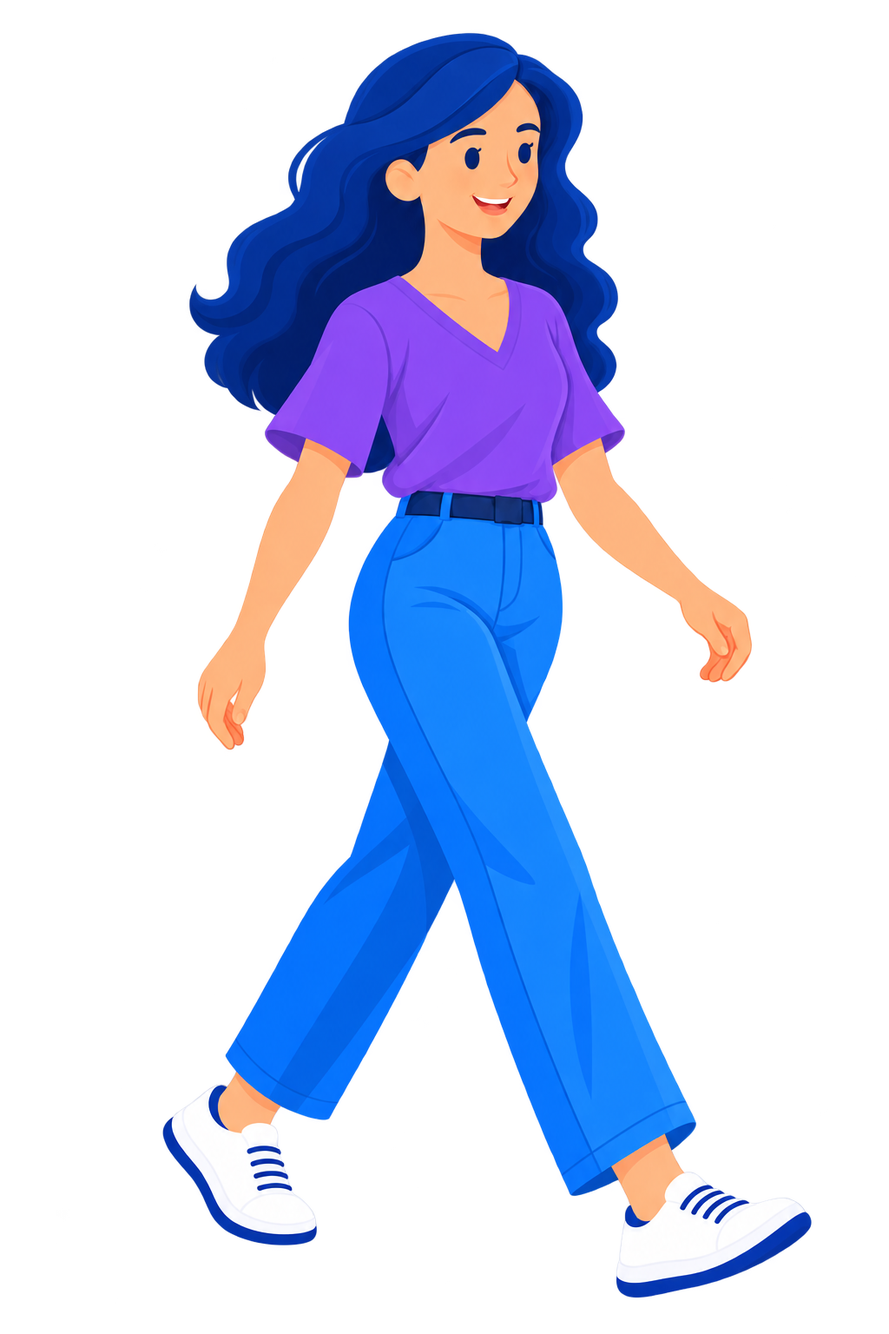
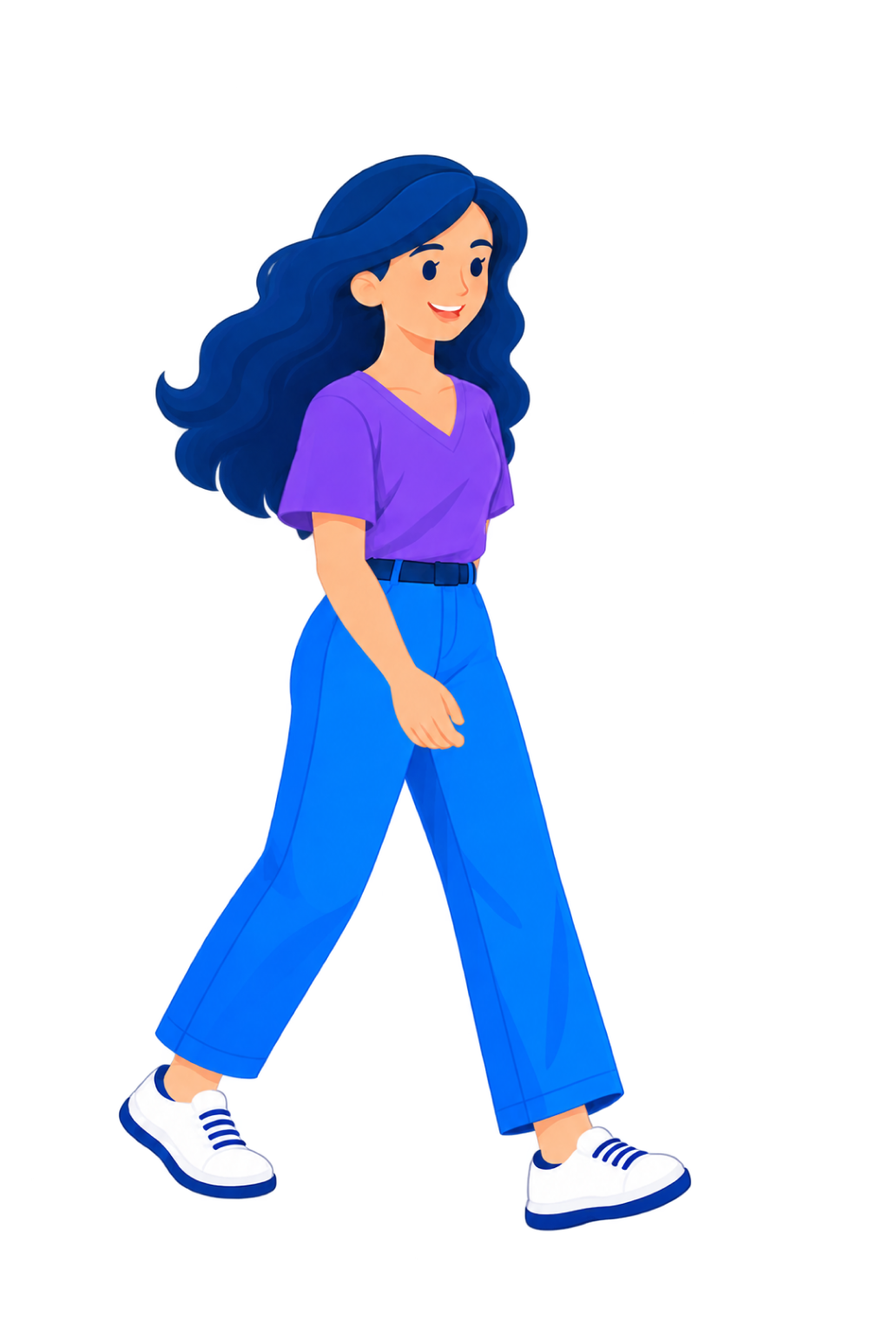
feat(qs-brand-animation): ciclo de caminata completo y 3 productos nuevos
- Ciclo de 6 fotogramas para Caro y Nico (reemplaza la zancada de una sola fase)
- CharacterWalk: elevación solo en fotogramas de paso, desfase y walkSpeed()
  para que el travelling acompañe la zancada sin que los pies patinen
- WalkLab: composición de validación (travelling + parallax), video en review/
- Productos: doypack de salsa, jabón de manos rosa, shampoo azul; categoría Salsas y aderezos
- scripts/build-manifests.py (npm run manifests) regenera poses.ts y products.ts

Claude-Session: https://claude.ai/code/session_01TCZn7RvVYdz1ZuWFcgayG7

Changed region(s): [[0.125, 0.0, 0.9062, 0.9688]]

diff --git a/projects/qs-brand-animation/src/characters/poses.ts b/projects/qs-brand-animation/src/characters/poses.ts
@@ -1,4 +1,4 @@
-/* Generado desde public/characters (bounding box del canal alfa > 16). No editar a mano: correr el script de assets. */
+/* Generado por scripts/build-manifests.py (bounding box del alfa > 16). No editar a mano. */
 export type PoseKind = 'standing' | 'seated' | 'fallen' | 'closeup';
 export type PoseMeta = { w: number; h: number; bbox: [number, number, number, number]; kind: PoseKind };
 
@@ -7,11 +7,12 @@ export const POSES = {
     'caida': { w: 1024, h: 1536, bbox: [52, 182, 1012, 1274], kind: 'fallen' },
     'caminando-cerca-2': { w: 1024, h: 1536, bbox: [204, 33, 918, 1493], kind: 'standing' },
     'caminando-cerca': { w: 1024, h: 1536, bbox: [178, 27, 936, 1493], kind: 'standing' },
-    'caminando-ciclo-01': { w: 1024, h: 1536, bbox: [187, 38, 935, 1495], kind: 'standing' },
-    'caminando-ciclo-02': { w: 1024, h: 1536, bbox: [200, 36, 897, 1497], kind: 'standing' },
-    'caminando-ciclo-03': { w: 1024, h: 1536, bbox: [193, 35, 954, 1478], kind: 'standing' },
-    'caminando-ciclo-04': { w: 1024, h: 1536, bbox: [189, 35, 948, 1482], kind: 'standing' },
-    'caminando-ciclo-05': { w: 1024, h: 1536, bbox: [203, 29, 921, 1493], kind: 'standing' },
+    'caminando-ciclo-01': { w: 1024, h: 1536, bbox: [136, 177, 797, 1418], kind: 'standing' },
+    'caminando-ciclo-02': { w: 1024, h: 1536, bbox: [161, 179, 719, 1416], kind: 'standing' },
+    'caminando-ciclo-03': { w: 1024, h: 1536, bbox: [171, 179, 730, 1416], kind: 'standing' },
+    'caminando-ciclo-04': { w: 1024, h: 1536, bbox: [204, 177, 664, 1418], kind: 'standing' },
+    'caminando-ciclo-05': { w: 1024, h: 1536, bbox: [185, 177, 715, 1417], kind: 'standing' },
+    'caminando-ciclo-06': { w: 1024, h: 1536, bbox: [177, 176, 798, 1419], kind: 'standing' },
     'caminando': { w: 1024, h: 1536, bbox: [197, 28, 877, 1487], kind: 'standing' },
     'celular-sonriendo': { w: 1024, h: 1536, bbox: [257, 34, 762, 1514], kind: 'standing' },
     'celular': { w: 1024, h: 1536, bbox: [257, 35, 759, 1513], kind: 'standing' },
@@ -26,10 +27,12 @@ export const POSES = {
   nico: {
     'caminando-cerca-2': { w: 1024, h: 1536, bbox: [224, 26, 893, 1495], kind: 'standing' },
     'caminando-cerca': { w: 1024, h: 1536, bbox: [164, 30, 932, 1495], kind: 'standing' },
-    'caminando-ciclo-01': { w: 1024, h: 1536, bbox: [189, 25, 904, 1489], kind: 'standing' },
-    'caminando-ciclo-02': { w: 1024, h: 1536, bbox: [172, 28, 932, 1469], kind: 'standing' },
-    'caminando-ciclo-03': { w: 1024, h: 1536, bbox: [171, 28, 940, 1476], kind: 'standing' },
-    'caminando-ciclo-04': { w: 1024, h: 1536, bbox: [189, 26, 912, 1495], kind: 'standing' },
+    'caminando-ciclo-01': { w: 1024, h: 1536, bbox: [226, 204, 844, 1452], kind: 'standing' },
+    'caminando-ciclo-02': { w: 1024, h: 1536, bbox: [304, 202, 686, 1452], kind: 'standing' },
+    'caminando-ciclo-03': { w: 1024, h: 1536, bbox: [187, 210, 870, 1452], kind: 'standing' },
+    'caminando-ciclo-04': { w: 1024, h: 1536, bbox: [348, 206, 684, 1452], kind: 'standing' },
+    'caminando-ciclo-05': { w: 1024, h: 1536, bbox: [213, 202, 848, 1452], kind: 'standing' },
+    'caminando-ciclo-06': { w: 1024, h: 1536, bbox: [277, 203, 696, 1451], kind: 'standing' },
     'caminando': { w: 1024, h: 1536, bbox: [163, 29, 875, 1507], kind: 'standing' },
     'celular-sonriendo': { w: 1024, h: 1536, bbox: [257, 39, 805, 1530], kind: 'standing' },
     'celular': { w: 941, h: 1672, bbox: [219, 51, 770, 1643], kind: 'standing' },

diff --git a/projects/qs-brand-animation/src/ui/products.ts b/projects/qs-brand-animation/src/ui/products.ts
@@ -1,5 +1,5 @@
-/* Generado desde public/products (bounding box del alfa > 16). Alturas aproximadas a ojo (referencia: lavandina 25 cm, crema dental 11,5 cm). Ajustables. */
-export type ProductCategory = 'lavandina' | 'ropa' | 'lavavajillas' | 'limpiadores' | 'cuidado';
+/* Generado por scripts/build-manifests.py. Alturas a ojo (referencia: lavandina 25 cm, crema dental 11,5 cm). */
+export type ProductCategory = 'lavandina' | 'ropa' | 'lavavajillas' | 'limpiadores' | 'cuidado' | 'almacen';
 export type ProductMeta = { file: string; name: string; category: ProductCategory; heightCm: number; w: number; h: number; bbox: [number, number, number, number] };
 
 export const PRODUCTS = {
@@ -8,12 +8,15 @@ export const PRODUCTS = {
   'bidon-limpiador-amarillo': { file: 'products/bidon-limpiador-amarillo.png', name: 'Lavandina en gel 1 L', category: 'lavandina', heightCm: 22, w: 1254, h: 1254, bbox: [401, 87, 889, 1172] },
   'detergente-liquido-celeste': { file: 'products/detergente-liquido-celeste.png', name: 'Jabón líquido para ropa 3 L', category: 'ropa', heightCm: 28, w: 1254, h: 1254, bbox: [322, 55, 961, 1202] },
   'dispensador-jabon-celeste': { file: 'products/dispensador-jabon-celeste.png', name: 'Jabón líquido de manos 250 ml', category: 'cuidado', heightCm: 16, w: 1254, h: 1254, bbox: [360, 78, 930, 1185] },
+  'dispensador-jabon-rosa': { file: 'products/dispensador-jabon-rosa.png', name: 'Jabón líquido de manos 300 ml', category: 'cuidado', heightCm: 17, w: 1024, h: 1536, bbox: [131, 46, 912, 1461] },
+  'doypack-salsa-pizza': { file: 'products/doypack-salsa-pizza.png', name: 'Salsa para pizza doypack 340 g', category: 'almacen', heightCm: 18, w: 1024, h: 1536, bbox: [85, 45, 940, 1469] },
   'lavavajillas-amarillo': { file: 'products/lavavajillas-amarillo.png', name: 'Lavavajillas 500 ml', category: 'lavavajillas', heightCm: 19, w: 1254, h: 1254, bbox: [354, 82, 900, 1186] },
   'rociador-limpiador-verde': { file: 'products/rociador-limpiador-verde.png', name: 'Limpiador multiuso gatillo 500 ml', category: 'limpiadores', heightCm: 24, w: 1144, h: 1375, bbox: [236, 26, 936, 1340] },
   'set-cosmetica-violeta': { file: 'products/set-cosmetica-violeta.png', name: 'Shampoo + acondicionador', category: 'cuidado', heightCm: 20, w: 1254, h: 1254, bbox: [280, 106, 1023, 1186] },
   'set-crema-rosa': { file: 'products/set-crema-rosa.png', name: 'Crema corporal tubo + pote', category: 'cuidado', heightCm: 12, w: 1254, h: 1254, bbox: [141, 136, 1148, 1119] },
   'set-desodorante-aerosol-rollon': { file: 'products/set-desodorante-aerosol-rollon.png', name: 'Desodorante aerosol + roll-on', category: 'cuidado', heightCm: 15, w: 1254, h: 1254, bbox: [289, 93, 1010, 1179] },
   'set-limpieza-celeste': { file: 'products/set-limpieza-celeste.png', name: 'Limpiador baño + inodoro', category: 'limpiadores', heightCm: 25, w: 1254, h: 1254, bbox: [155, 116, 1129, 1162] },
+  'shampoo-azul': { file: 'products/shampoo-azul.png', name: 'Shampoo 400 ml azul', category: 'cuidado', heightCm: 20, w: 1024, h: 1536, bbox: [282, 39, 753, 1503] },
   'shampoo-violeta': { file: 'products/shampoo-violeta.png', name: 'Shampoo 400 ml', category: 'cuidado', heightCm: 19, w: 1312, h: 1199, bbox: [418, 12, 894, 1180] },
   'tubo-crema-celeste': { file: 'products/tubo-crema-celeste.png', name: 'Crema dental 90 g', category: 'cuidado', heightCm: 11.5, w: 1254, h: 1254, bbox: [384, 74, 861, 1192] },
 } as const satisfies Record<string, ProductMeta>;

diff --git a/projects/qs-brand-animation/src/characters/Character.tsx b/projects/qs-brand-animation/src/characters/Character.tsx
@@ -88,32 +88,43 @@ export const Character = <W extends CharacterName>({ who, pose, height, x, y, br
 };
 
 type WalkProps<W extends CharacterName> = Omit<Props<W>, 'pose' | 'offsetY' | 'breath'> & {
-  /** fotogramas de la caminata, en orden */
+  /** fotogramas del ciclo, en orden */
   frames: PoseOf<W>[];
-  /** segundos por fotograma */
+  /** segundos por fotograma. 0.25 s ≈ 2 pasos por segundo (caminata natural) */
   frameSec?: number;
-  /** rebote vertical por paso (px) */
+  /** elevación en los fotogramas de paso (px); los de contacto quedan apoyados */
   bob?: number;
+  /** desfase del ciclo en fotogramas (para que dos personajes no pisen igual) */
+  offset?: number;
 };
 
+/** Largo de paso relativo a la altura de la figura (contacto a contacto). */
+export const STRIDE_RATIO = 0.42;
+
 /**
- * Caminata por swap de PNG + rebote leve. El desplazamiento lateral (travelling) lo hace la escena.
- * Nota: los fotogramas entregados son variantes de la misma zancada; para un ciclo completo
- * hacen falta los de la fase opuesta.
+ * Velocidad de travelling (px/s) que acompaña el ciclo sin que los pies patinen:
+ * un paso = 2 fotogramas del ciclo (contacto → paso).
  */
-export const CharacterWalk = <W extends CharacterName>({ frames, frameSec = 0.2, bob = 5, ...rest }: WalkProps<W>) => {
+export const walkSpeed = (height: number, frameSec = 0.25) => (STRIDE_RATIO * height) / (2 * frameSec);
+
+/**
+ * Caminata por swap de PNG: ciclo de 6 fotogramas (contacto / paso alternados) + leve elevación en los pasos.
+ * El desplazamiento lateral lo hace la escena, con walkSpeed() para que coincida con la zancada.
+ */
+export const CharacterWalk = <W extends CharacterName>({ frames, frameSec = 0.25, bob = 3, offset = 0, ...rest }: WalkProps<W>) => {
   const frame = useCurrentFrame();
   const { fps } = useVideoConfig();
   const step = Math.max(1, Math.round(frameSec * fps));
-  const i = Math.floor(frame / step) % frames.length;
-  const t = (frame % step) / step;
-  const offsetY = -Math.abs(Math.sin(t * Math.PI)) * bob;
+  const i = (Math.floor(frame / step) + offset) % frames.length;
+  // fotogramas pares del ciclo (índice 1, 3, 5) son de paso: el cuerpo sube un poco
+  const offsetY = i % 2 === 1 ? -bob : 0;
   return <Character {...(rest as Props<W>)} pose={frames[i]} breath={0} offsetY={offsetY} />;
 };
 
+const CYCLE = ['caminando-ciclo-01', 'caminando-ciclo-02', 'caminando-ciclo-03', 'caminando-ciclo-04', 'caminando-ciclo-05', 'caminando-ciclo-06'];
 export const WALK_FRAMES = {
-  caro: ['caminando-ciclo-01', 'caminando-ciclo-02', 'caminando-ciclo-03', 'caminando-ciclo-04', 'caminando-ciclo-05'] as PoseOf<'caro'>[],
-  nico: ['caminando-ciclo-01', 'caminando-ciclo-02', 'caminando-ciclo-03', 'caminando-ciclo-04'] as PoseOf<'nico'>[],
+  caro: CYCLE as PoseOf<'caro'>[],
+  nico: CYCLE as PoseOf<'nico'>[],
 };
 
 export const listPoses = (who: CharacterName) => Object.keys(POSES[who]);

diff --git a/projects/qs-brand-animation/src/showcase/labs.tsx b/projects/qs-brand-animation/src/showcase/labs.tsx
@@ -8,7 +8,8 @@ import { Phone } from '../devices/Phone';
 import { GradientBackground } from '../shapes/GradientBackground';
 import { Rings } from '../shapes/Rings';
 import { Blob } from '../shapes/Blob';
-import { KPI, KPIS, Toast, VisitsScreen, MapCard, ChartCard, ListRow, PDVS, IndicatorCard } from '../ui';
+import { KPI, KPIS, Toast, VisitsScreen, MapCard, ChartCard, ListRow, PDVS, IndicatorCard, Shelf, ShelfItem } from '../ui';
+import { CharacterWalk, WALK_FRAMES, walkSpeed } from '../characters/Character';
 import { phoneScreenRect } from '../transitions/zoomThrough';
 import { ObjectWipe } from '../transitions/ObjectWipe';
 import { MaskReveal } from '../transitions/MaskReveal';
@@ -241,5 +242,49 @@ export const TransitionsLab: React.FC = () => {
         );
       })}
     </AbsoluteFill>
+  );
+};
+
+/* ───────────── WalkLab: ciclo de caminata + travelling sin patinar ───────────── */
+
+const NICO_H = 620;
+const CARO_H = 380;
+const FLOOR_Y = 1000;
+const AISLE: ShelfItem[] = [
+  { id: 'detergente-liquido-celeste', facings: 3 },
+  { id: 'bidon-lavandina-amarillo', facings: 3 },
+  { id: 'lavavajillas-amarillo', facings: 4 },
+  { id: 'rociador-limpiador-verde', facings: 3 },
+  { id: 'shampoo-azul', facings: 4 },
+  { id: 'dispensador-jabon-rosa', facings: 3 },
+  { id: 'doypack-salsa-pizza', facings: 4 },
+];
+
+export const WalkLab: React.FC = () => {
+  const frame = useCurrentFrame();
+  const { fps } = useVideoConfig();
+  const t = frame / fps;
+  const nicoX = 300 + walkSpeed(NICO_H) * t;
+  // Caro camina en el fondo (capa bg): su velocidad en pantalla ya queda escalada por el parallax
+  const caroX = 900 + walkSpeed(CARO_H) * t;
+  return (
+    <Camera state={{ x: nicoX + 260, y: 540, zoom: 1, rotate: 0 }}>
+      <DepthLayer depth="sky">
+        <GradientBackground arc="solution" seed="walk" />
+      </DepthLayer>
+      <DepthLayer depth="bg">
+        {[0, 1, 2, 3].map((k) => (
+          <Place key={k} x={-600 + k * 1520} y={640} anchor={[0, 1]} opacity={0.7}>
+            <Shelf items={AISLE} pxPerCm={3.2} />
+          </Place>
+        ))}
+        <CharacterWalk who="caro" frames={WALK_FRAMES.caro} height={CARO_H} x={caroX} y={720} offset={3} />
+      </DepthLayer>
+      <DepthLayer depth="mg">
+        <div style={{ position: 'absolute', left: -2000, width: 9000, top: FLOOR_Y - 8, height: 400, background: `linear-gradient(180deg, ${alpha(colors.white, 0.95)}, ${colors.light})` }} />
+        <CharacterWalk who="nico" frames={WALK_FRAMES.nico} height={NICO_H} x={nicoX} y={FLOOR_Y} />
+      </DepthLayer>
+      <LabLabel text={`WalkLab · ciclo de 6 fotogramas · ${Math.round(walkSpeed(NICO_H))} px/s`} />
+    </Camera>
   );
 };

diff --git a/projects/qs-brand-animation/src/showcase/pages.tsx b/projects/qs-brand-animation/src/showcase/pages.tsx
@@ -399,7 +399,10 @@ const LINEUP: ShelfItem[] = [
   { id: 'lavavajillas-amarillo' },
   { id: 'set-cosmetica-violeta' },
   { id: 'shampoo-violeta' },
+  { id: 'shampoo-azul' },
   { id: 'dispensador-jabon-celeste' },
+  { id: 'dispensador-jabon-rosa' },
+  { id: 'doypack-salsa-pizza' },
   { id: 'tubo-crema-celeste' },
   { id: 'set-desodorante-aerosol-rollon' },
   { id: 'set-crema-rosa' },
@@ -413,7 +416,8 @@ const SHELF_TOP: ShelfItem[] = [
 ];
 const SHELF_BOTTOM: ShelfItem[] = [
   { id: 'shampoo-violeta', facings: 3 },
-  { id: 'dispensador-jabon-celeste', facings: 2 },
+  { id: 'shampoo-azul', facings: 2 },
+  { id: 'dispensador-jabon-rosa', facings: 2 },
   { id: 'set-desodorante-aerosol-rollon', facings: 2 },
   { id: 'tubo-crema-celeste', facings: 3 },
   { id: 'aerosol-verde', facings: 2 },
@@ -443,7 +447,7 @@ export const PageProducts: React.FC = () => {
     { items: top, g: 0, y: topY, tall: tallTop, label: 'Jabón líquido ropa 3 L', conf: 0.97, status: 'valid' as const, price: '$8.890' },
     { items: top, g: 2, y: topY, tall: tallTop, label: 'Lavandina en gel 1 L', conf: 0.94, status: 'detected' as const },
     { items: bot, g: 0, y: botY, tall: tallBot, label: 'Shampoo 400 ml', conf: 0.92, status: 'valid' as const, price: '$3.420' },
-    { items: bot, g: 3, y: botY, tall: tallBot, label: 'Fuera de planograma', status: 'missing' as const },
+    { items: bot, g: 4, y: botY, tall: tallBot, label: 'Fuera de planograma', status: 'missing' as const },
   ];
   return (
     <Board title="Productos y visión artificial" page="5/8">

diff --git a/projects/qs-brand-animation/src/ui/data.ts b/projects/qs-brand-animation/src/ui/data.ts
@@ -24,12 +24,15 @@ export const SKUS = [
   { product: 'tubo-crema-celeste', ean: '7790008901234', name: 'Crema dental 90 g', category: 'Cuidado personal', price: 1299.0 },
   { product: 'set-desodorante-aerosol-rollon', ean: '7790009012345', name: 'Desodorante aerosol 150 ml', category: 'Cuidado personal', price: 2760.0 },
   { product: 'dispensador-jabon-celeste', ean: '7790000123456', name: 'Jabón líquido de manos 250 ml', category: 'Cuidado personal', price: 1845.5 },
+  { product: 'dispensador-jabon-rosa', ean: '7790000234561', name: 'Jabón líquido de manos 300 ml', category: 'Cuidado personal', price: 2015.0 },
+  { product: 'shampoo-azul', ean: '7790000345672', name: 'Shampoo control caspa 400 ml', category: 'Cuidado personal', price: 3690.0 },
+  { product: 'doypack-salsa-pizza', ean: '7790000456783', name: 'Salsa para pizza doypack 340 g', category: 'Salsas y aderezos', price: 1390.0 },
 ] as const;
 
 export type Sku = (typeof SKUS)[number];
 
 /** Categorías del formulario de precios, en el orden de PSMob. */
-export const CATEGORIES = ['Lavandina', 'Jabón para la ropa', 'Lavavajillas', 'Limpiadores', 'Cuidado personal'] as const;
+export const CATEGORIES = ['Lavandina', 'Jabón para la ropa', 'Lavavajillas', 'Limpiadores', 'Cuidado personal', 'Salsas y aderezos'] as const;
 export const skusOf = (category: (typeof CATEGORIES)[number]) => SKUS.filter((s) => s.category === category);
 
 export const KPIS = {

diff --git a/projects/qs-brand-animation/src/Root.tsx b/projects/qs-brand-animation/src/Root.tsx
@@ -5,7 +5,7 @@ import { FPS, HEIGHT, sec, WIDTH } from './lib/time';
 import { Main, mainSchema } from './Main';
 import { totalDurationInFrames } from './timeline';
 import { SHOWCASE_PAGES } from './showcase/pages';
-import { CameraLab, TransitionsLab, TRANSITION_DEMO_SEC } from './showcase/labs';
+import { CameraLab, TransitionsLab, TRANSITION_DEMO_SEC, WalkLab } from './showcase/labs';
 import { TRANSITION_TYPES } from './transitions/types';
 
 /** Cada lámina entra animada (valida la prop progress) y queda quieta para el still. */
@@ -29,6 +29,7 @@ export const RemotionRoot: React.FC = () => (
       <Composition key={id} id={`Showcase-${id}`} component={C} durationInFrames={sec(SHOWCASE_PAGE_SEC)} fps={FPS} width={WIDTH} height={HEIGHT} />
     ))}
     <Composition id="CameraLab" component={CameraLab} durationInFrames={sec(6)} fps={FPS} width={WIDTH} height={HEIGHT} />
+    <Composition id="WalkLab" component={WalkLab} durationInFrames={sec(5)} fps={FPS} width={WIDTH} height={HEIGHT} />
     <Composition id="TransitionsLab" component={TransitionsLab} durationInFrames={sec(TRANSITION_DEMO_SEC) * TRANSITION_TYPES.length} fps={FPS} width={WIDTH} height={HEIGHT} />
   </>
 );

diff --git a/projects/qs-brand-animation/scripts/build-manifests.py b/projects/qs-brand-animation/scripts/build-manifests.py
@@ -1,0 +1,103 @@
+#!/usr/bin/env python3
+"""
+Regenera src/characters/poses.ts y src/ui/products.ts a partir de /public.
+Mide el bounding box del canal alfa de cada PNG (alfa > 16).
+Uso: npm run manifests   (requiere Python 3 + Pillow)
+"""
+import glob
+import os
+from PIL import Image
+
+ROOT = os.path.dirname(os.path.dirname(os.path.abspath(__file__)))
+
+# Alturas aproximadas a ojo. Referencias acordadas: lavandina 25 cm, crema dental 11,5 cm.
+PRODUCT_INFO = {
+    'bidon-lavandina-amarillo': ('lavandina', 25, 'Lavandina 2 L'),
+    'bidon-limpiador-amarillo': ('lavandina', 22, 'Lavandina en gel 1 L'),
+    'detergente-liquido-celeste': ('ropa', 28, 'Jabón líquido para ropa 3 L'),
+    'lavavajillas-amarillo': ('lavavajillas', 19, 'Lavavajillas 500 ml'),
+    'rociador-limpiador-verde': ('limpiadores', 24, 'Limpiador multiuso gatillo 500 ml'),
+    'set-limpieza-celeste': ('limpiadores', 25, 'Limpiador baño + inodoro'),
+    'aerosol-verde': ('limpiadores', 20, 'Desinfectante aerosol 360 ml'),
+    'shampoo-violeta': ('cuidado', 19, 'Shampoo 400 ml'),
+    'shampoo-azul': ('cuidado', 20, 'Shampoo 400 ml azul'),
+    'set-cosmetica-violeta': ('cuidado', 20, 'Shampoo + acondicionador'),
+    'dispensador-jabon-celeste': ('cuidado', 16, 'Jabón líquido de manos 250 ml'),
+    'dispensador-jabon-rosa': ('cuidado', 17, 'Jabón líquido de manos 300 ml'),
+    'set-desodorante-aerosol-rollon': ('cuidado', 15, 'Desodorante aerosol + roll-on'),
+    'tubo-crema-celeste': ('cuidado', 11.5, 'Crema dental 90 g'),
+    'set-crema-rosa': ('cuidado', 12, 'Crema corporal tubo + pote'),
+    'doypack-salsa-pizza': ('almacen', 18, 'Salsa para pizza doypack 340 g'),
+}
+
+POSE_KIND = {
+    'mostrando-celu': 'closeup',
+    'sentada': 'seated',
+    'sentado': 'seated',
+    'durmiendo': 'seated',
+    'caida': 'fallen',
+}
+
+
+def bbox(path):
+    im = Image.open(path)
+    bb = im.getchannel('A').point(lambda v: 255 if v > 16 else 0).getbbox()
+    return im.size, bb
+
+
+def fmt(v):
+    return str(v).rstrip('0').rstrip('.') if isinstance(v, float) else str(v)
+
+
+def build_poses():
+    lines = [
+        '/* Generado por scripts/build-manifests.py (bounding box del alfa > 16). No editar a mano. */',
+        "export type PoseKind = 'standing' | 'seated' | 'fallen' | 'closeup';",
+        'export type PoseMeta = { w: number; h: number; bbox: [number, number, number, number]; kind: PoseKind };',
+        '',
+        'export const POSES = {',
+    ]
+    for who in ['caro', 'nico']:
+        lines.append(f'  {who}: {{')
+        for f in sorted(glob.glob(os.path.join(ROOT, f'public/characters/{who}/*.png'))):
+            name = os.path.basename(f)[:-4]
+            (w, h), bb = bbox(f)
+            kind = POSE_KIND.get(name, 'standing')
+            lines.append(f"    '{name}': {{ w: {w}, h: {h}, bbox: [{', '.join(map(str, bb))}], kind: '{kind}' }},")
+        lines.append('  },')
+    lines += [
+        '} as const satisfies Record<string, Record<string, PoseMeta>>;',
+        '',
+        'export type CaroPose = keyof typeof POSES.caro;',
+        'export type NicoPose = keyof typeof POSES.nico;',
+    ]
+    open(os.path.join(ROOT, 'src/characters/poses.ts'), 'w').write('\n'.join(lines) + '\n')
+
+
+def build_products():
+    lines = [
+        '/* Generado por scripts/build-manifests.py. Alturas a ojo (referencia: lavandina 25 cm, crema dental 11,5 cm). */',
+        "export type ProductCategory = 'lavandina' | 'ropa' | 'lavavajillas' | 'limpiadores' | 'cuidado' | 'almacen';",
+        'export type ProductMeta = { file: string; name: string; category: ProductCategory; heightCm: number; w: number; h: number; bbox: [number, number, number, number] };',
+        '',
+        'export const PRODUCTS = {',
+    ]
+    missing = []
+    for f in sorted(glob.glob(os.path.join(ROOT, 'public/products/*.png'))):
+        k = os.path.basename(f)[:-4]
+        if k not in PRODUCT_INFO:
+            missing.append(k)
+            continue
+        c, cm, n = PRODUCT_INFO[k]
+        (w, h), bb = bbox(f)
+        lines.append(f"  '{k}': {{ file: 'products/{k}.png', name: '{n}', category: '{c}', heightCm: {fmt(cm)}, w: {w}, h: {h}, bbox: [{', '.join(map(str, bb))}] }},")
+    lines += ['} as const satisfies Record<string, ProductMeta>;', '', 'export type ProductId = keyof typeof PRODUCTS;']
+    open(os.path.join(ROOT, 'src/ui/products.ts'), 'w').write('\n'.join(lines) + '\n')
+    if missing:
+        print('Productos sin datos en PRODUCT_INFO (no incluidos):', ', '.join(missing))
+
+
+if __name__ == '__main__':
+    build_poses()
+    build_products()
+    print('poses.ts y products.ts regenerados')

diff --git a/projects/qs-brand-animation/README.md b/projects/qs-brand-animation/README.md
@@ -12,6 +12,7 @@ npm run dev              # Remotion Studio
 npm run typecheck
 npm run stills           # stills de validación → out/
 npm run list-assets      # logos y poses presentes en /public
+npm run manifests        # regenera poses.ts y products.ts (Python 3 + Pillow)
 npm run export-markers   # markers.csv para sound design
 ```
 
@@ -21,7 +22,7 @@ En `Main`, `showMarkers: true` muestra el overlay de sound design.
 
 ## Assets
 
-Todo está cargado en `/public`: logos oficiales, 18 poses de Caro, 15 de Nico y 13 productos genéricos.
+Todo está cargado en `/public`: logos oficiales, 19 poses de Caro, 17 de Nico (con ciclo de caminata de 6 fotogramas) y 16 productos genéricos.
 
 | Asset | Ruta |
 |---|---|
@@ -30,7 +31,7 @@ Todo está cargado en `/public`: logos oficiales, 18 poses de Caro, 15 de Nico y
 | Productos | `public/products/*.png` (fondo transparente) |
 
 - **Poses:** `src/characters/poses.ts` guarda el bounding box de cada pose. `<Character height={…}>` escala de forma uniforme para que la figura mida lo mismo de pie en todas las poses, con los pies en `y`. Las poses sentadas y la caída usan un factor aproximado.
-- **Caminata:** `<CharacterWalk frames={WALK_FRAMES.nico}>` alterna los fotogramas de la zancada con un leve rebote vertical. Los fotogramas entregados son de una sola fase; para un ciclo completo faltan los de la pierna contraria.
+- **Caminata:** `<CharacterWalk frames={WALK_FRAMES.nico}>` recorre el ciclo de 6 fotogramas (contacto y paso alternados). `walkSpeed(height)` da la velocidad del travelling que acompaña la zancada sin que los pies patinen. Se valida en la composición `WalkLab`.
 - **Productos:** `src/ui/products.ts` guarda la categoría y la altura real (cm) de cada producto. `<Product>` y `<Shelf>` dibujan a escala real, así que una crema dental no mide lo mismo que una lavandina. `<ProductThumb>` es la miniatura para listas. Las alturas son aproximadas y se pueden ajustar.
 - **Indicadores:** `<Gauge>` es el medio círculo de `indicadores_svg`, con valor coloreado por estado y un punto que marca el objetivo. Tiene tres variantes: `GaugeCard` (fondo claro), `GaugeTile` (sobre el header) e `IndicatorCard` (resumen de la home). El color sale del cumplimiento del objetivo (valor ÷ objetivo): verde solo si llega al 100 %, amarillo de 50 % a 99 % y rojo por debajo de 50 %. Sin objetivo, el indicador va en azul neutral.
 - **Isotipo:** `src/brand/isoPaths.ts` separa el SVG oficial en 20 triángulos (uno por subpath) para la escena 13, sin redibujar nada. `<IsoTriangles triangle={(i) => …}>` los anima por separado.

diff --git a/projects/qs-brand-animation/STORYBOARD.md b/projects/qs-brand-animation/STORYBOARD.md
@@ -274,7 +274,7 @@ AiFred se presenta como IA aplicada: nada aparece de golpe.
 
 ## Pendientes y decisiones abiertas
 
-- **Caminata de Nico (escena 9):** los fotogramas actuales son una sola fase de la zancada. Esperamos los de la fase opuesta; mientras tanto se usa `CharacterWalk` con swap y rebote vertical.
+- **Caminata (escena 9):** resuelta. Hay un ciclo de 6 fotogramas por personaje y el travelling va a `walkSpeed()`, validado en `WalkLab`.
 - **Nico levantando el celular (escena 9 → 10):** el zoom through queda más limpio con un PNG del celular de frente. Hoy se resuelve con `mostrando-pantalla`.
 - **Música:** los cortes se alinean al beat cuando llegue el BPM. Los markers están en `markers.ts`.
 - **Duración total:** 65,9 s contra los 68 del brief. Hay margen para estirar holds (escenas 4, 10 y 14) cuando esté la VO.
